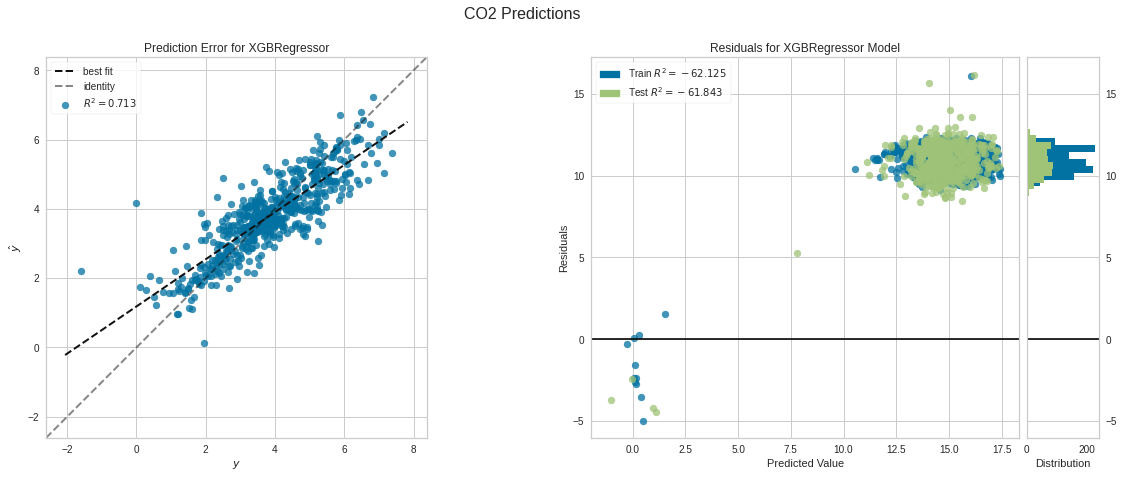
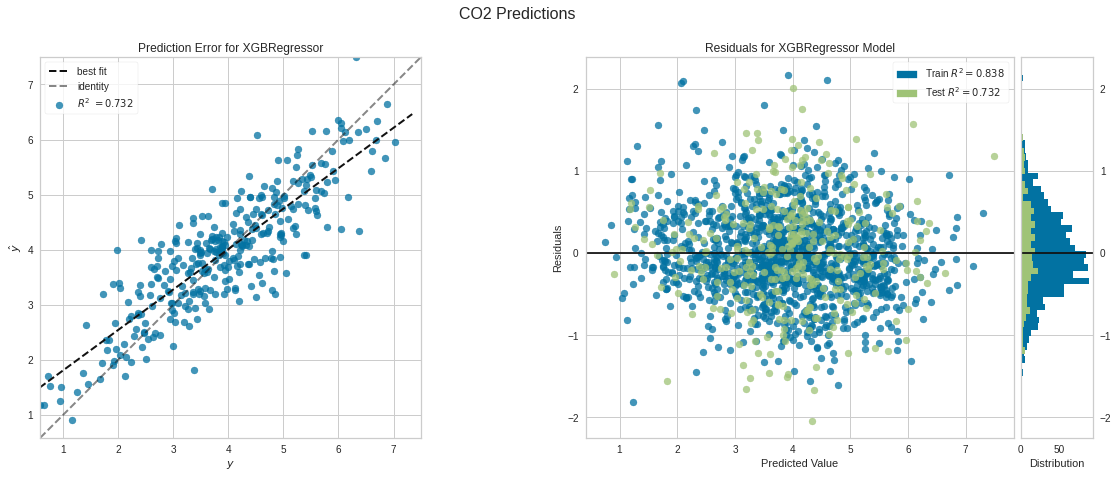
imp-p3 final version

diff --git a/content/blog/projects/datascience/iml-3/index.fr.md b/content/blog/projects/datascience/iml-3/index.fr.md
@@ -73,14 +73,14 @@ Pour réduire les risques de surapprentissage l'entrainement a été fait avec u
 {{< bootstraptables "table compact" >}}
 | Modèle       | R²     | RMSE  | Entrainement (s) |
 | ------------ |:------:|:-----:|:----------------:|
-| Ridge        | 0.604  | 0.844 | 0.028            |
-| Lasso        | -0.007 | 1.351 | 0.013            |
-| Elasticnet   | -0.007 | 1.351 | 0.015            |
-| LinearSVR    | 0.582  | 0.867 | 0.041            |
-| Kernel SVR   | 0.604  | 0.846 | 0.258            |
-| RandomForest | 0.663  | 0.780 | 2.937            |
-| XGBoost      | 0.701  | 0.732 | 0.436            |
-| MLP          | 0.581  | 0.867 | 26.078           |
+| Ridge        | 0.609  | 0.830 | 0.032            |
+| Lasso        | -0.002 | 1.333 | 0.028            |
+| Elasticnet   | -0.002 | 1.333 | 0.018            |
+| LinearSVR    | 0.582  | 0.858 | 0.061            |
+| Kernel SVR   | 0.595  | 0.845 | 0.297            |
+| RandomForest | 0.661  | 0.770 | 3.018            |
+| XGBoost      | 0.705  | 0.721 | 0.768	           |
+| MLP          | 0.572  | 0.867 | 28.451           |
 {{< /bootstraptables >}}
 
 ---
@@ -88,21 +88,23 @@ Pour réduire les risques de surapprentissage l'entrainement a été fait avec u
 {{< bootstraptables "table compact" >}}
 | Modèle       | R²     | RMSE  | Entrainement (s) |
 | ------------ |:------:|:-----:|:----------------:|
-| Ridge        | 0.673  | 0.871 | 0.015            |
-| Lasso        | -0.011 | 1.575 | 0.009            |
-| Elasticnet   | -0.011 | 1.575 | 0.013            |
-| LinearSVR    | 0.557  | 1.067 | 0.039            |
-| SVR          | 0.478  | 1.175 | 0.217            |
-| RandomForest | 0.710  | 0.815 | 1.508            |
-| XGBoost      | 0.773  | 0.739 | 0.402            |
-| MLP          | 0.285  | 1.062 | 37.603           |
+| Ridge        | 0.662  | 0.871 | 0.015            |
+| Lasso        | -0.006 | 1.575 | 0.009            |
+| Elasticnet   | -0.006 | 1.575 | 0.013            |
+| LinearSVR    | 0.522  | 1.067 | 0.039            |
+| SVR          | 0.429  | 1.175 | 0.217            |
+| RandomForest | 0.698  | 0.815 | 1.508            |
+| XGBoost      | 0.730  | 0.739 | 0.402            |
+| MLP          | 0.544  | 1.062 | 37.603           |
 {{< /bootstraptables >}}
 {{< /split >}}
 
 Il a été constaté que le modèle **eXtreme Gradient Boosting** (XGBoost) est celui qui obtient les meilleures performances. C'est donc ce modèle qui a été selectionné pour réaliser les prédictions.  
-L'optimisation des hyperparamètres a alors été réalisée avec une **GridSearch** pour chaque variable à prédire ce qui a permis d'obtenir ces scores finaux:
-$$CO_2: R²=0.723$$
-$$Energies: R²=0.858$$
+L'optimisation des hyperparamètres a alors été réalisée avec une **GridSearch** pour chaque variable à prédire ce qui a permis de meilleurs scores mais la différence de performances entre les deux modèles a été accentuée:
+$$CO_2: R²=0.732$$
+$$Energies: R²=0.904$$
+
+Cette différence peut s'expliquer par le fait qu'il y plus de features en rapport aux énergies consommé dans les données.
 
 {{< vs 1 >}}
 
@@ -115,14 +117,14 @@ $$Energies: R²=0.858$$
 ### Score EnergyStar
 
 Une **analyse de l'importance des features** a ensuite montrée que le score EnergyStar est une des colonnes qui influents le plus les prédictions de chaque modèle. Comme cette valeur est coûteuse à obtenir, toute la procédure de sélection et d'optimisation de modèles à été recommencée en ayant supprimé le score EnergyStar du jeu de données.  
-C'est encore le modèle XGBoost qui a obtenu les meilleures performances, cependant les scores sont nettements inférieurs à la version précédente, surtout pour le modèle de prédiction des émissions de CO2.
+C'est encore le modèle XGBoost qui a obtenu les meilleures performances, avec des scores légèrements inférieurs à la version précédente  dont une différence un peu plus marquée pour les pédictions d'émissions de CO2.
 
-{{< img src="images/buildingTypeScores.png" height="350" width="500" align="center" title="R² par type de batiment" >}}
+{{< img src="images/energystar_comparison.png" height="350" width="500" align="center" title="R² par type de batiment" >}}
 {{< vs 2 >}}
 
 ## Conclusion
 
-On peut considérer les prédictions obtenues comme acceptables en conservant le score EnergyStar. Il revient alors à la MOA de décider si les économies réalisées sur le calcul de cette colonne valent la perte de précisions des prédictios, ou s'il est préférable de continuer les recherches d'un modèle plus performant qui n'utiliserait pas le score EnergyStar.
+On peut considérer les prédictions obtenues comme acceptables et il est possible de se passer du score EnergyStar sans pertes de performances significatives. Il revient alors à la MOA de décider s'il est possible d'arrêter le calcul de cette valeur ou s'il est préférable de continuer les recherches d'un modèle plus performant surtout pour les prédictions sur le CO2.
 
 **Pistes de recherches futures**:
 - Utiliser une méthode de réduction de dimensions sur les données
